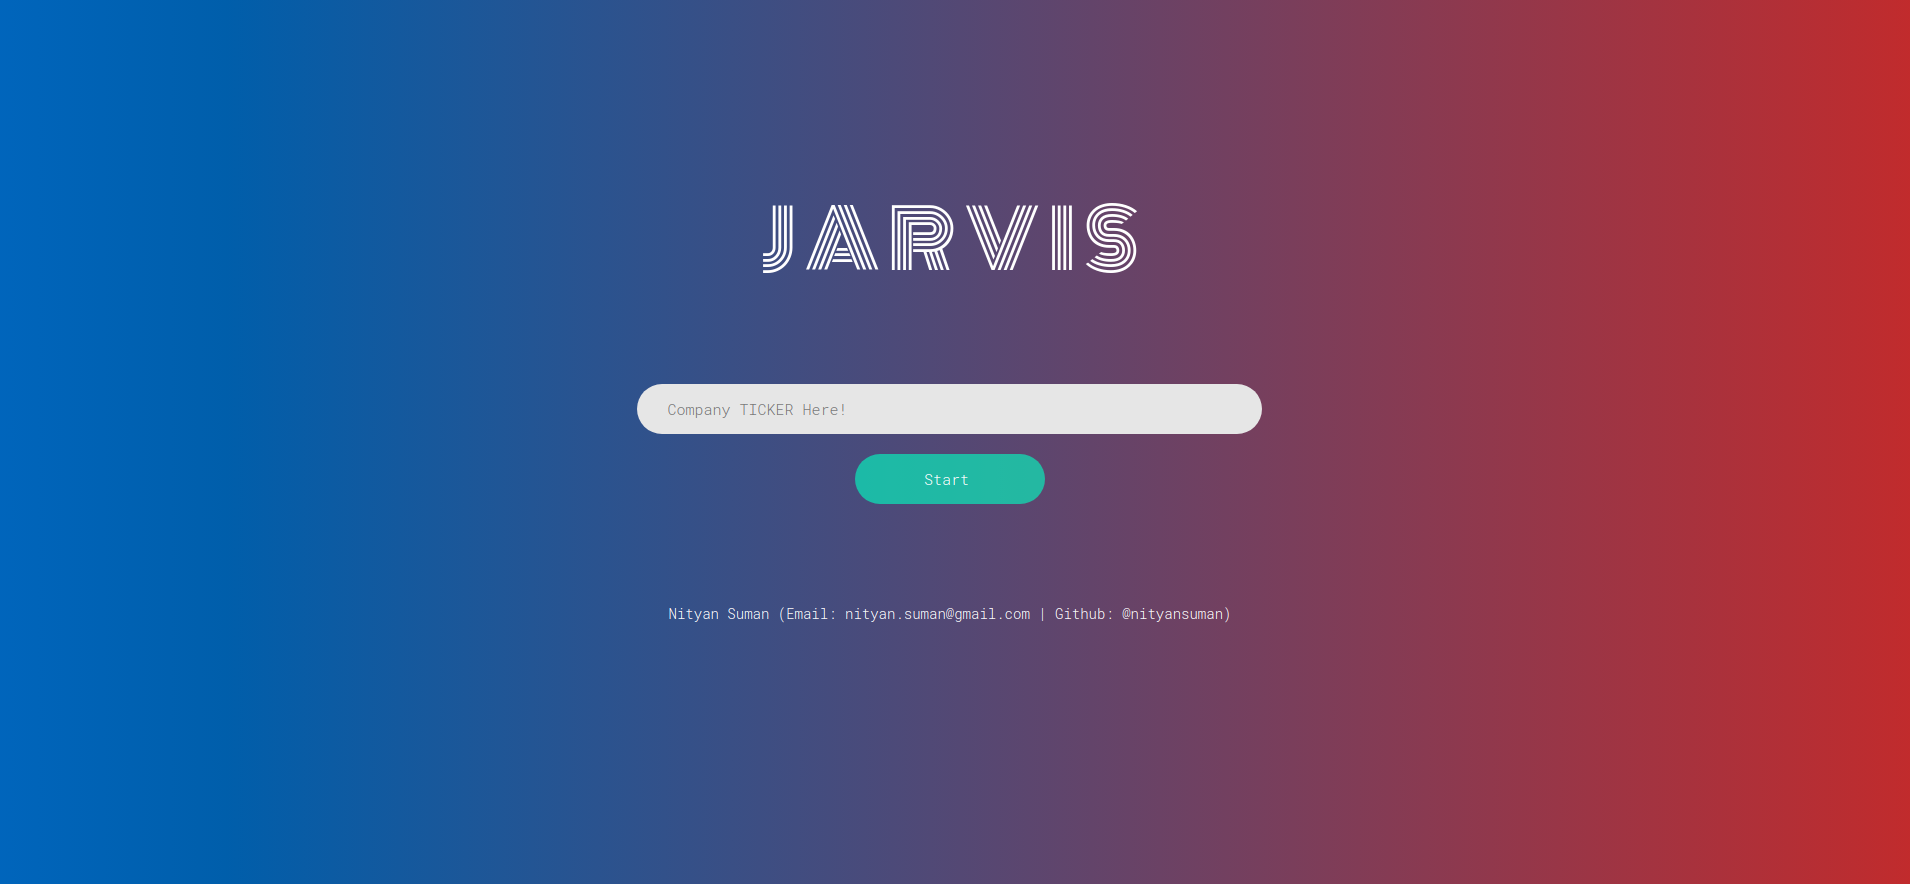
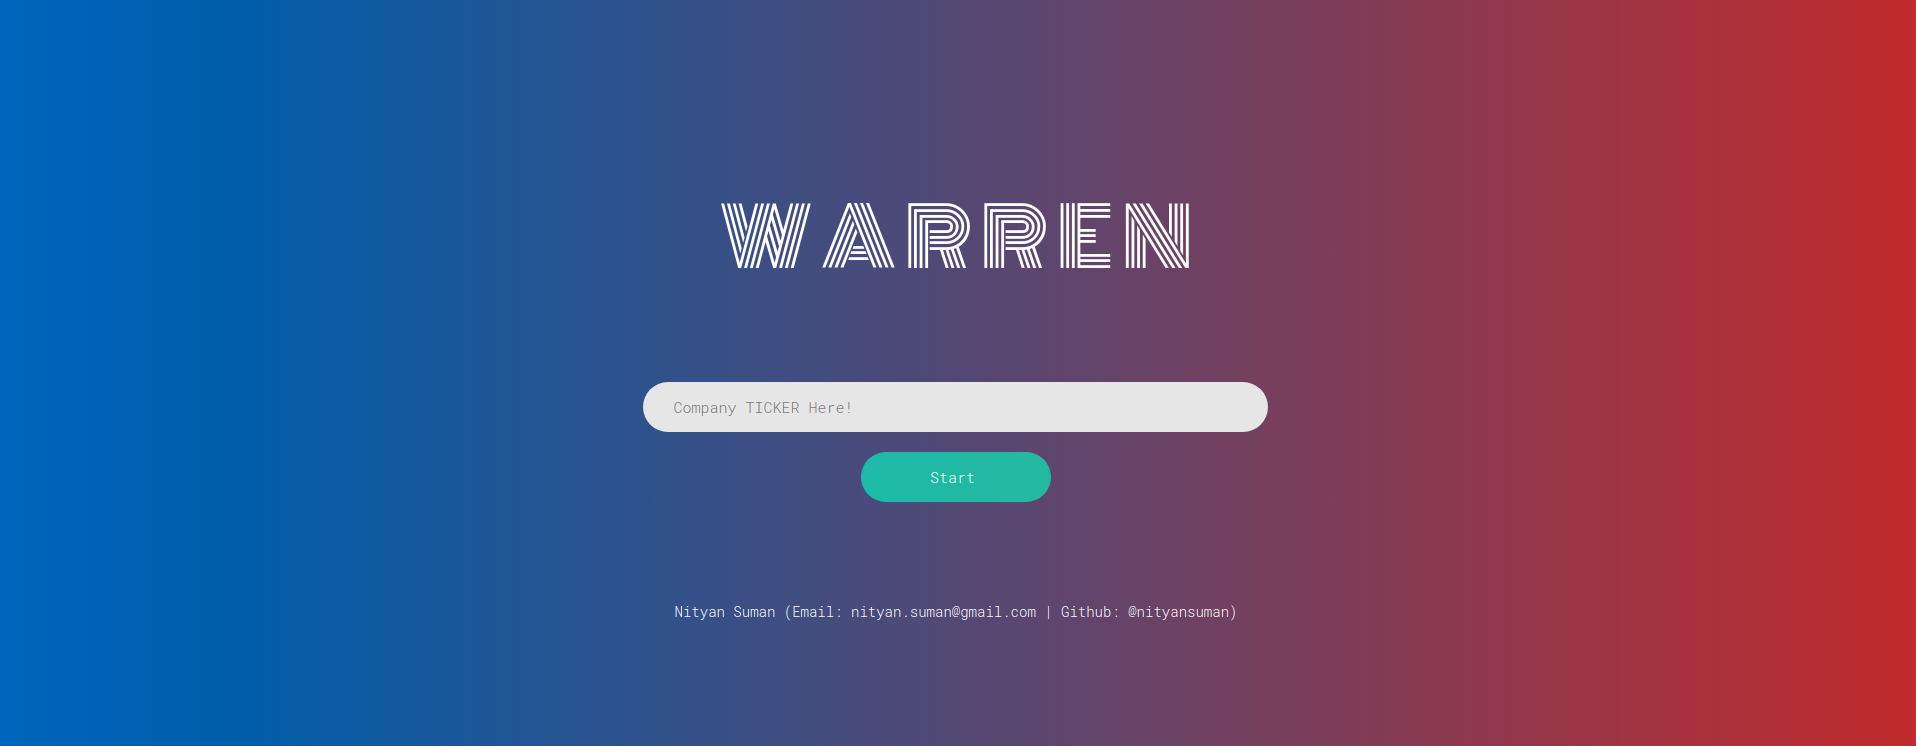
Updated

Changed region(s): [[0.3089, 0.4316, 0.6796, 0.7091], [0.3707, 0.2158, 0.6178, 0.37], [0.3398, 0.8016, 0.6487, 0.8324]]

diff --git a/src/templates/index.html b/src/templates/index.html
@@ -3,7 +3,7 @@
 <head>
     <meta charset="utf-8">
     <meta http-equiv="X-UA-Compatible" content="IE=edge,chrome=1">
-    <title>JARVIS Dashboard</title>
+    <title>Dashboard</title>
     <meta name="description" content="">
     <meta name="viewport" content="width=device-width, initial-scale=1">
 	<!-- CSS -->
@@ -27,7 +27,7 @@
 			</div>
 			<div class="col-sm-10">
 				<center>
-					<h1 class="tagline">J A R V I S</h1>
+					<h1 class="tagline">W A R R E N</h1>
 				</center>
 			</div>			
 			<div class="col-sm-1">

diff --git a/src/templates/output.html b/src/templates/output.html
@@ -3,7 +3,7 @@
 <head>
     <meta charset="utf-8">
     <meta http-equiv="X-UA-Compatible" content="IE=edge,chrome=1">
-    <title>JARVIS Dashboard</title>
+    <title>Dashboard</title>
     <meta name="description" content="">
     <meta name="viewport" content="width=device-width, initial-scale=1">
 	<!-- CSS -->
